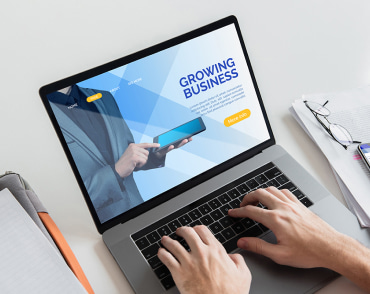
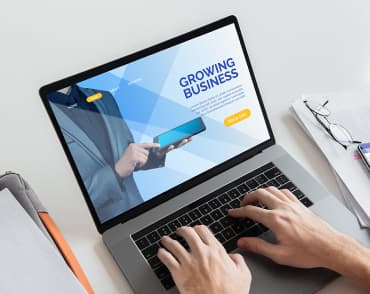
оптимизировал изображения

diff --git a/index.html b/index.html
@@ -84,12 +84,12 @@
           <h2 class="section-title">Чем мы занимаемся</h2>
           <ul class="examples-images">
             <li>
-              <img src="./images/box-1.jpg" alt="Десктопные приложения" width="370" height="294" />
+              <img src="./images/work1.jpg" alt="Десктопные приложения" width="370" height="294" />
             </li>
             <li>
-              <img src="./images/box-2.jpg" alt="Мобильные приложения" width="370" height="294" />
+              <img src="./images/work2.jpg" alt="Мобильные приложения" width="370" height="294" />
             </li>
-            <li><img src="./images/box-3.jpg" alt="Дизайн" width="370" height="294" /></li>
+            <li><img src="./images/work3.jpg" alt="Дизайн" width="370" height="294" /></li>
           </ul>
         </div>
       </section>
@@ -100,7 +100,7 @@
           <ul class="member-cards">
             <li>
               <div class="member-card">
-                <img src="./images/img-team-1.jpg" alt="Демьяненко" width="270" height="260" />
+                <img src="./images/team1.jpg" alt="Демьяненко" width="270" height="260" />
                 <h3 class="member-name">Игорь Демьяненко</h3>
                 <p lang="en" class="member-profile">Product Designer</p>
                 <ul class="social-links">
@@ -113,21 +113,21 @@
             </li>
             <li>
               <div class="member-card">
-                <img src="./images/img-team-2.jpg" alt="Репина" width="270" height="260" />
+                <img src="./images/team2.jpg" alt="Репина" width="270" height="260" />
                 <h3 class="member-name">Ольга Репина</h3>
                 <p lang="en" class="member-profile">Frontend Developer</p>
               </div>
             </li>
             <li>
               <div class="member-card">
-                <img src="./images/img-team-3.jpg" alt="Тарасов" width="270" height="260" />
+                <img src="./images/team3.jpg" alt="Тарасов" width="270" height="260" />
                 <h3 class="member-name">Николай Тарасов</h3>
                 <p lang="en" class="member-profile">Marketing</p>
               </div>
             </li>
             <li>
               <div class="member-card">
-                <img src="./images/img-team-4.jpg" alt="Ермаков" width="270" height="260" />
+                <img src="./images/team4.jpg" alt="Ермаков" width="270" height="260" />
                 <h3 class="member-name">Михаил Ермаков</h3>
                 <p lang="en" class="member-profile">UI Designer</p>
               </div>
